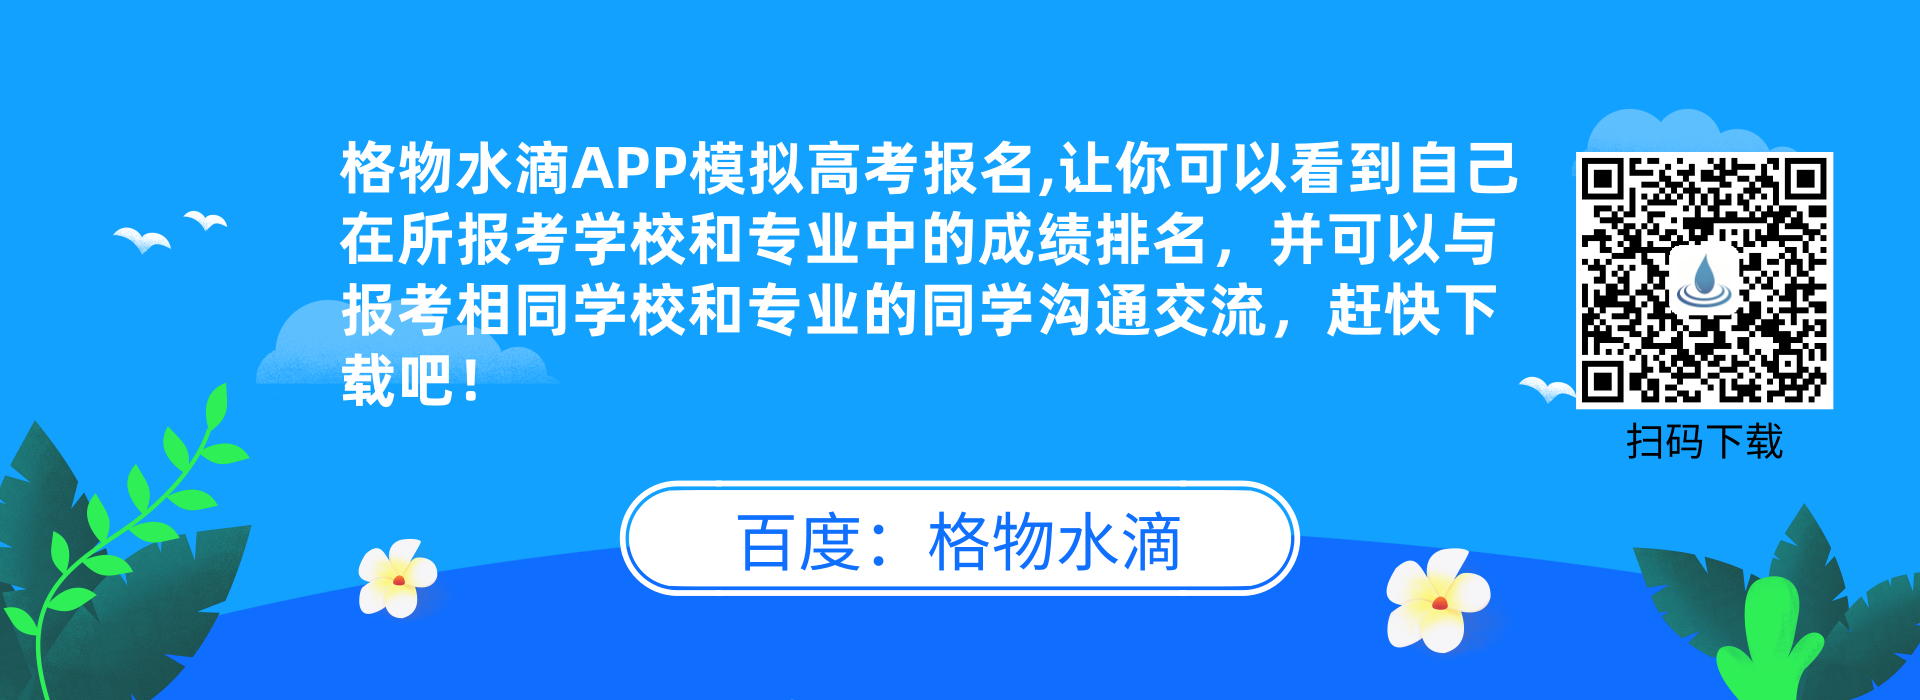
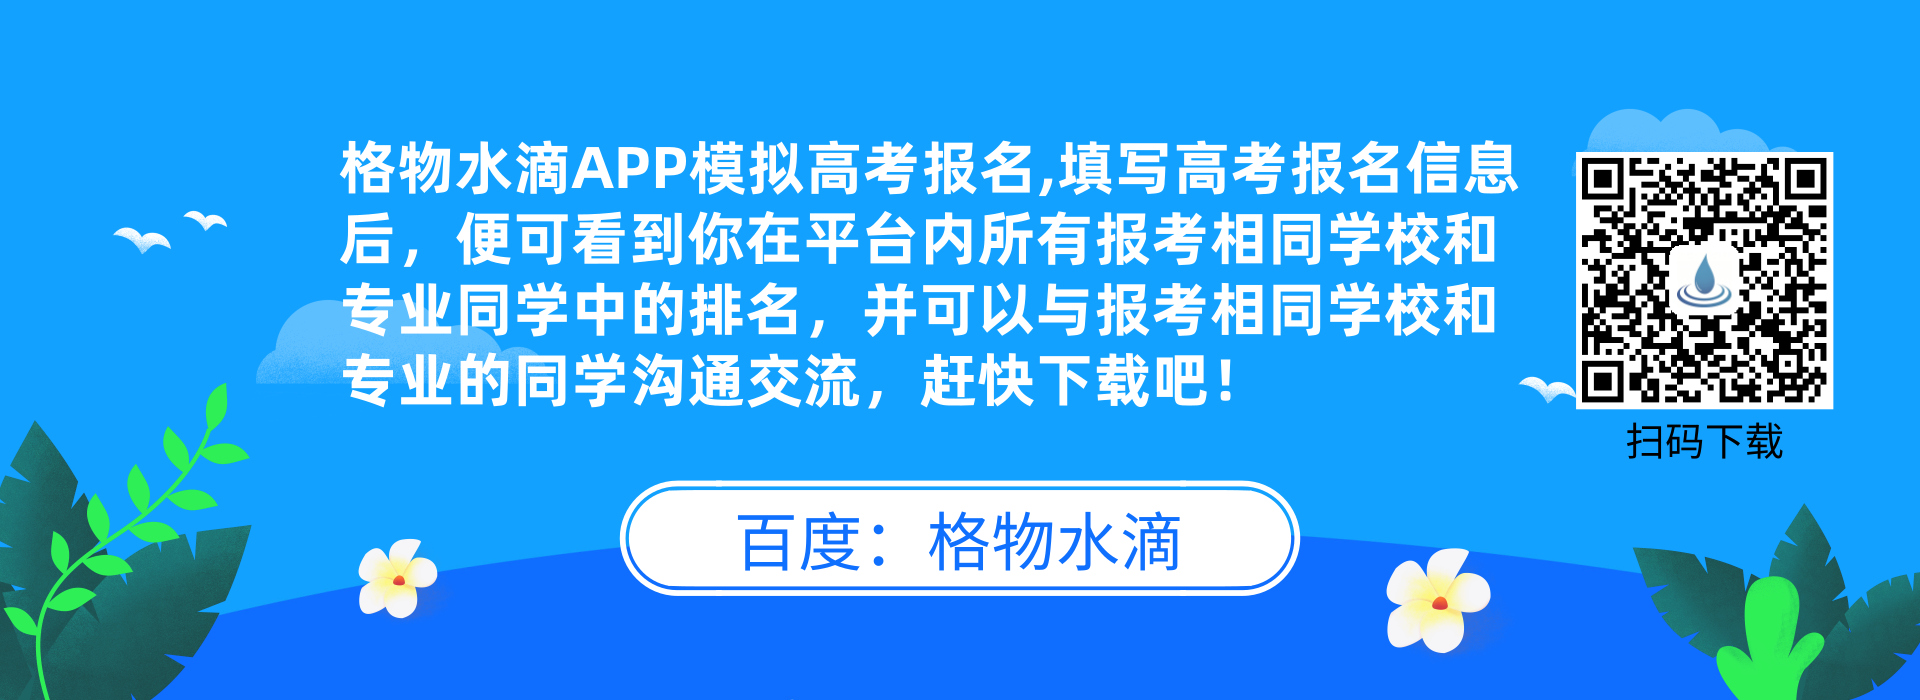
修改高考报名

Changed region(s): [[0.1562, 0.18, 0.8125, 0.48], [0.1562, 0.51, 0.6562, 0.6]]

diff --git a/src/components/Instruction.js b/src/components/Instruction.js
@@ -10,10 +10,10 @@ const job = [
     '3、工作时间和地点：自由',
     '4、岗位要求：高三学生(推广者最好为高三学生,可以直接在同学群、朋友圈或贴吧进行推广)。不是高三学生者,身边有高三同学资源者亦可。',
     '5、工作报酬：按照每有效用户10元人民币计算推广提成。',
-    '6、有效用户确认规则：首先你应注册推广账号，选择自己负责推广的学校；所有在app内注册并填写高中学历为你负责推广学校的，均为你的推广用户；你的推广用户在指定验收时间内登陆APP并使用高考报名进行模拟报考的，便为你的有效用户。',
-    '7、工作流程：业务推广者注册推广账号->推广下载格物水滴APP->向高考学生推广注册->向高考学生推广高考报名功能。各流程详情见各部分描述。',
+    '6、有效用户确认规则：首先你应注册推广账号，选择自己负责推广的学校；所有在app内注册并填写高中学历为你负责推广学校的，均为你的推广用户；你的推广用户在指定验收时间内登陆APP并使用高考模拟报名进行模拟报考的，便为你的有效用户。',
+    '7、工作流程：业务推广者注册推广账号->推广下载格物水滴APP->向高考学生推广注册->向高考学生推广高考模拟报名功能。各流程详情见各部分描述。',
     '8、推广建议：建议联合不同班级的同学共同推广，做大蛋糕，共同分配奖金。',
-    '9、格物水滴APP简介：格物水滴app有高考报名、同城交友等多种功能。其中高考报名功能主要为：使用APP进行高考志愿模拟填报的同学，可以看到自己在报考学校和专业的成绩排名，并可以与其他报考者沟通交流。',
+    '9、格物水滴APP简介：格物水滴app有高考模拟报名、同城交友等多种功能。其中高考模拟报名功能主要为：使用APP进行高考志愿模拟填报的同学，可以看到自己在平台上所有报考相同学校和专业学生中的成绩排名，并可以与其他报考者沟通交流。',
 ];
 
 
@@ -141,7 +141,7 @@ class Instruction extends React.Component{
                     style={{ width: 400,}}
                     cover={<img alt="example" src={require('../../src/assets/3-1.jpg')} />}
                 >
-                    <Meta title="1.用户注册" description="" />
+                    <Meta title="1.用户注册" description="用户填写用户名、密码进行注册" />
                 </Card>
                 <Divider />
                 <Card
@@ -160,21 +160,21 @@ class Instruction extends React.Component{
                     <Meta title="3.在学习经历中填写地点和选择学校名称" description="凡是学习经历中高中学校名称填写为你所推广学校的，便归为你的推广用户。" />
                 </Card>
                 </Panel>
-                <Panel header="推广高考报名功能" key="6">
+                <Panel header="推广高考模拟报名功能" key="6">
                 <Card
                     hoverable
                     style={{ width: 400,}}
-                    cover={<img alt="example" src={require('../../src/assets/4-1.jpg')} />}
+                    // cover={<img alt="example" src={require('../../src/assets/4-1.jpg')} />}
                 >
-                    <Meta title="1.高考报名功能" description="你推广的用户在规定的验收时间内使用高考报名功能进行模拟报名，便认定为有效用户，据以计算推广业绩。" />
+                    <Meta title="1.高考模拟报名功能" description="你推广的用户在规定的验收时间内使用高考模拟报名功能进行模拟报名，便认定为有效用户，据以计算推广业绩。" />
                 </Card>
                 <Divider />
                 <Card
                     hoverable
                     style={{ width: 400}}
-                    cover={<img alt="example" src={require('../../src/assets/4-2.jpg')} />}
+                    // cover={<img alt="example" src={require('../../src/assets/4-2.jpg')} />}
                 >
-                    <Meta title="2.模拟高考志愿填报" description="填写高考基本信息、选择学校和专业进行高考模拟报名" />
+                    <Meta title="2.模拟高考志愿填报" description="高考用户填写高考基本信息、选择学校和专业便可进行高考模拟报名" />
                 </Card>
                 <Divider />
        

diff --git a/src/components/Header.js b/src/components/Header.js
@@ -2,21 +2,6 @@ import React, { Component } from 'react'
 import { Link } from 'react-router-dom'
 import { withRouter } from 'react-router'
 import { AUTH_TOKEN } from '../constants'
-import { Modal, Button } from 'antd';
-
-
-function info() {
-  Modal.info({
-    title: '联系我们',
-    content: (
-      <div>
-        <p>联系地址：河南省安阳市殷都区华祥路与安钢大道交叉口北祥瑞商务大厦招商楼3711</p>
-        <p>联系电话：13460825410</p>
-      </div>
-    ),
-    onOk() {},
-  });
-}
 
 class Header extends Component {
   render() {
